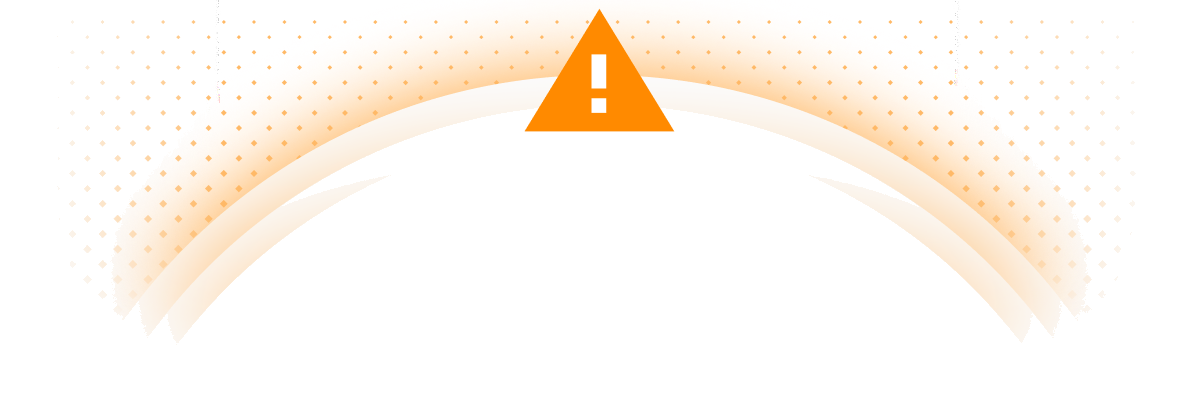
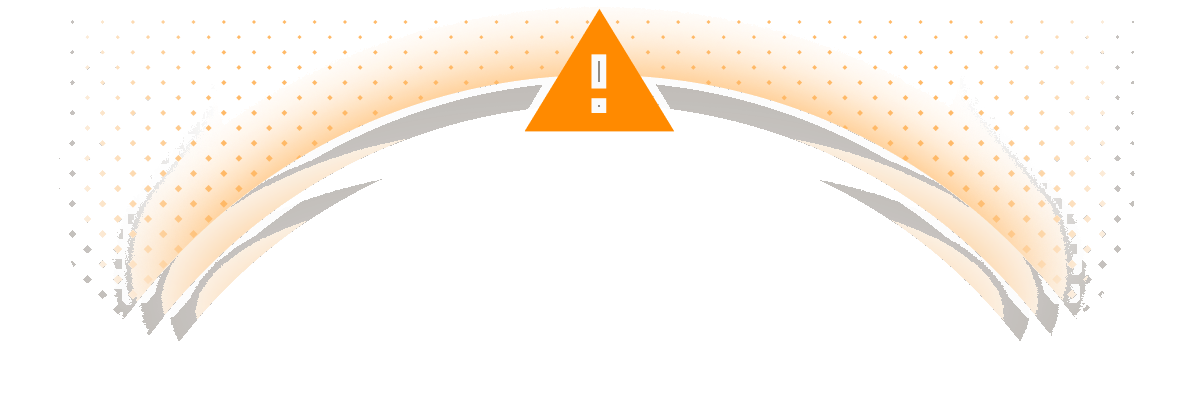
Remaster ScamAdviser hero art for dark theme
Keep check/warning/X colors and white glyphs; crush bright white
decorative arcs/dots so the graphic fits ScamGuard’s dark UI.

diff --git a/chillflix-patches/scamguard/includes/header.php b/chillflix-patches/scamguard/includes/header.php
@@ -2,7 +2,7 @@
 $siteName = get_setting('site_name', 'ScamGuard');
 $announcementEnabled = get_setting('announcement_enabled', '0') === '1';
 $announcement = get_setting('announcement_banner', '');
-$assetVer = '20260727sa9';
+$assetVer = '20260727sa10';
 
 $pageTitle = $pageTitle ?? $siteName;
 $pageDescription = $pageDescription ?? 'Check websites for scam, phishing, and malware risk signals before you click.';
